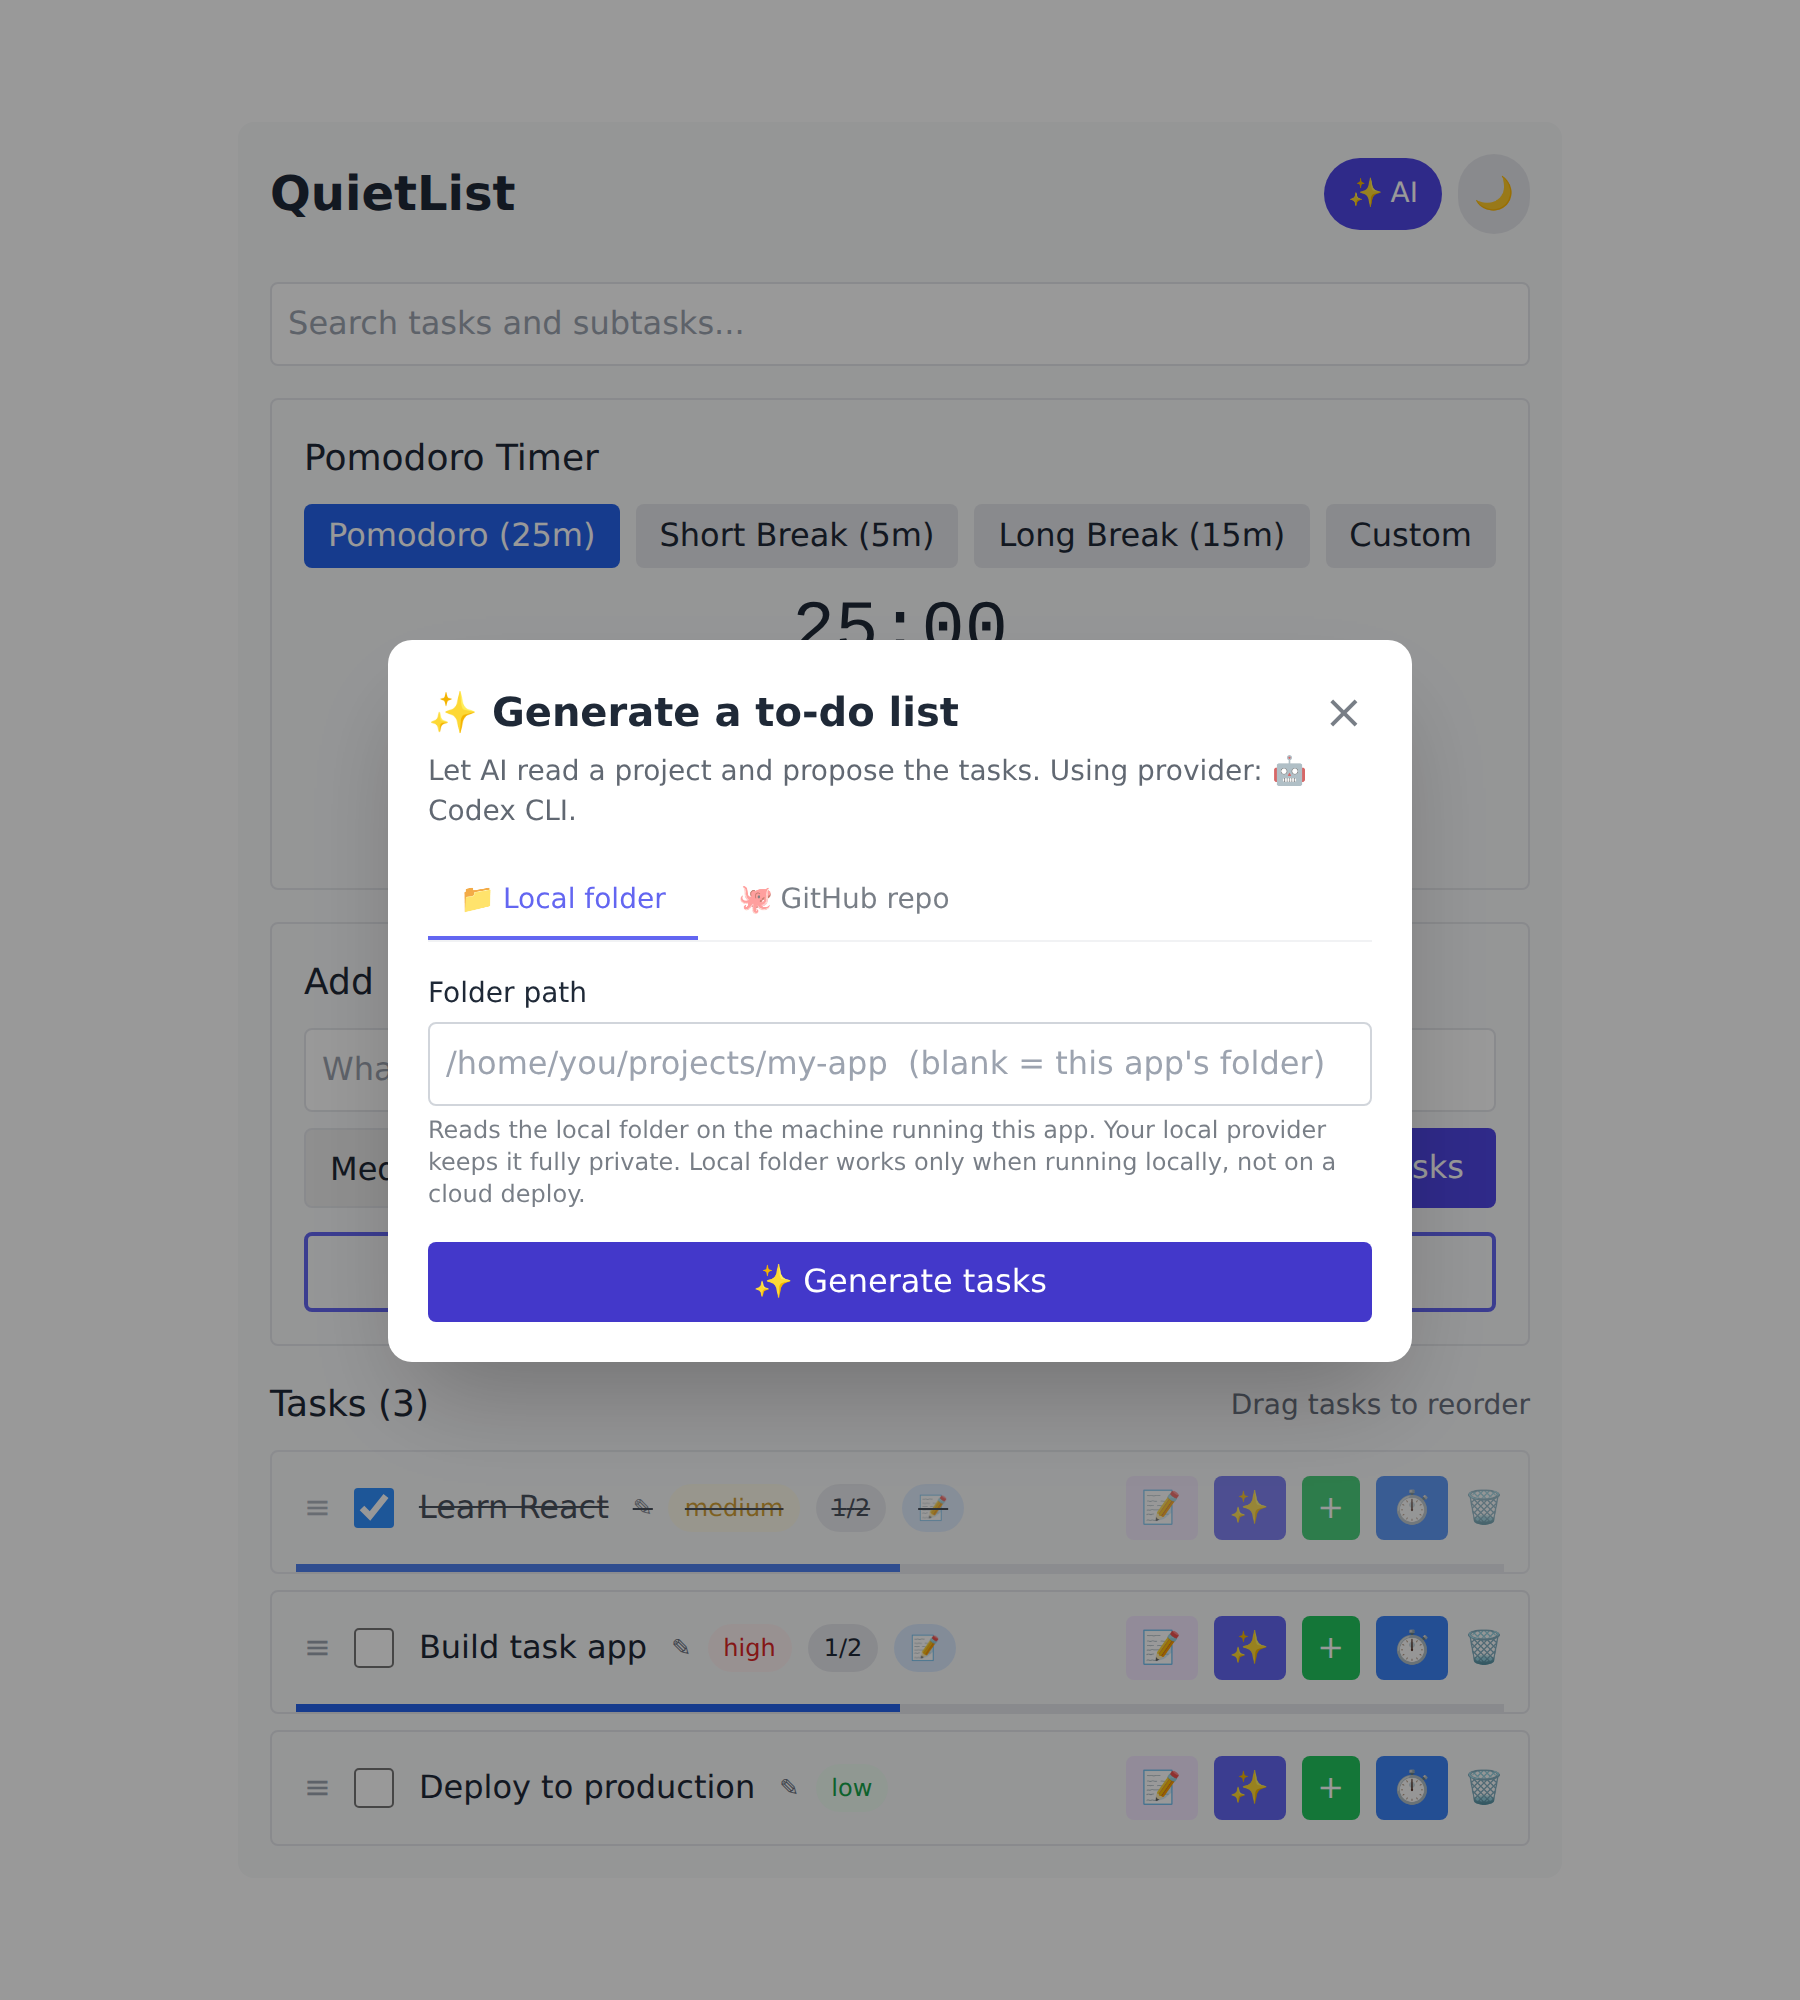
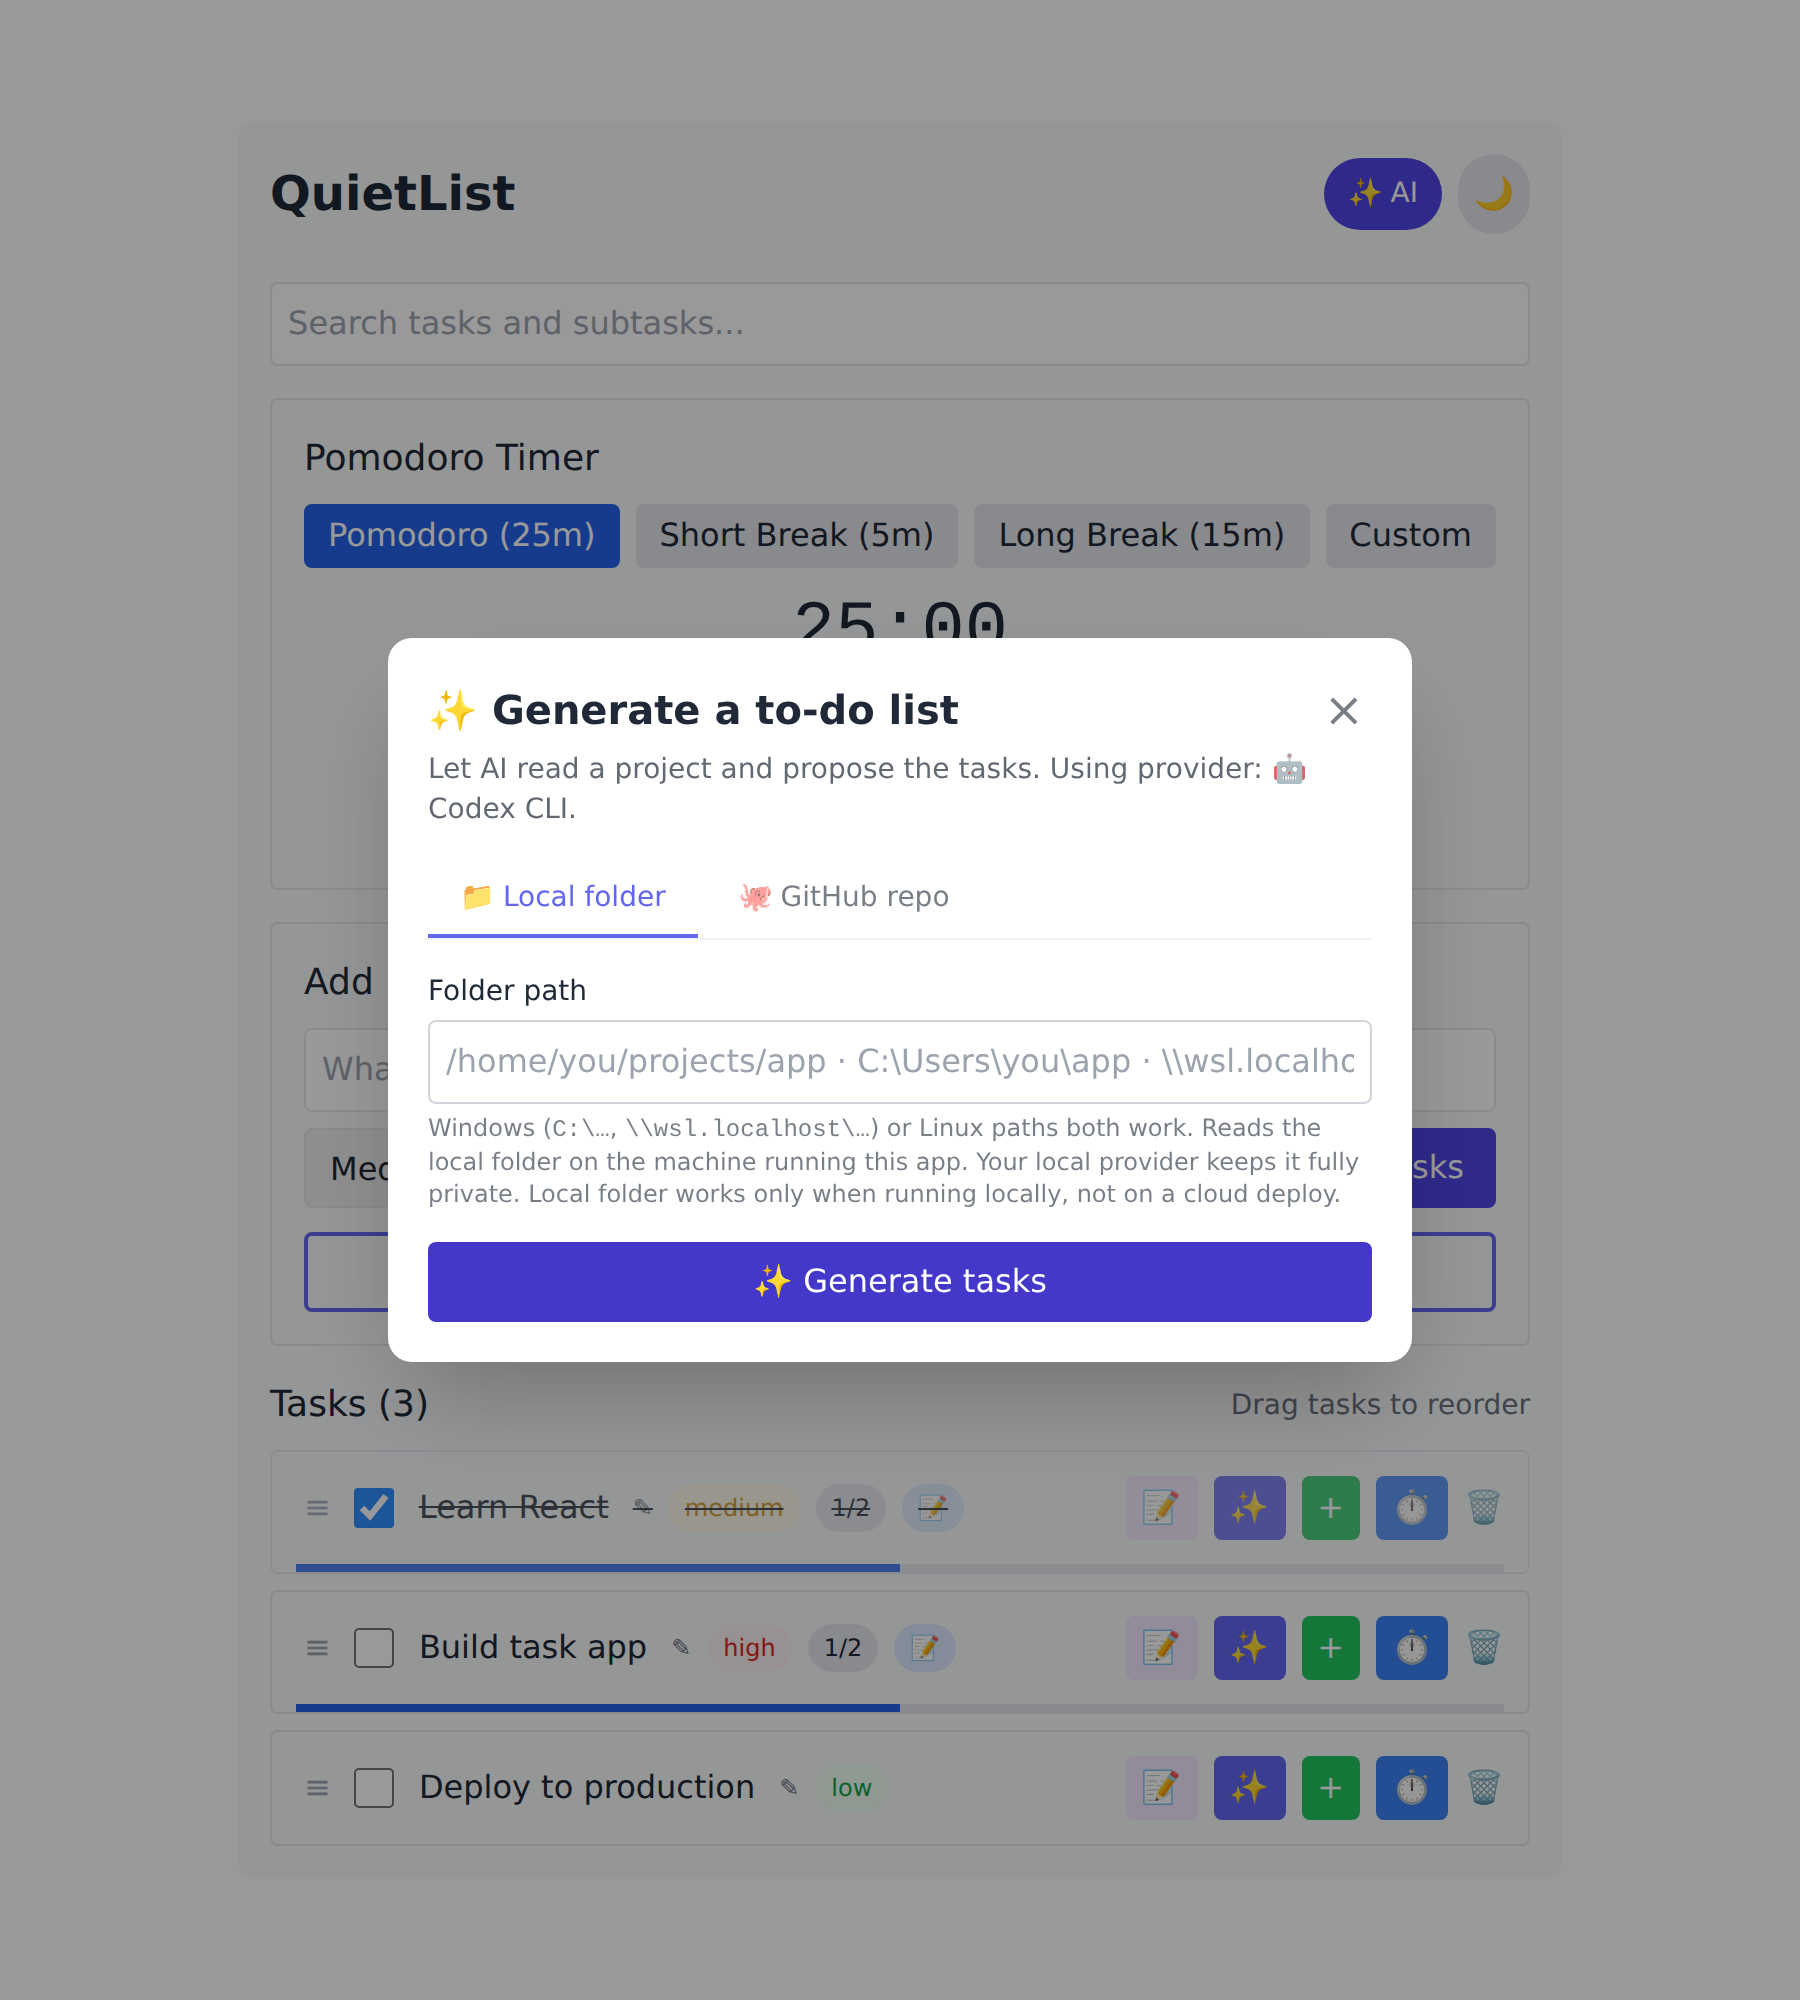
Generated to-do list lands as one parent task with the items as subtasks

diff --git a/components/TaskMasterApp.jsx b/components/TaskMasterApp.jsx
@@ -455,26 +455,28 @@ function TaskMasterApp() {
     if (created) await aiBreakdown(goal, created.id);
   };
 
-  // Append several AI-generated tasks at once (from the project generator)
-  const addTasksFromList = (texts) => {
+  // Add an AI-generated project to-do list as ONE parent task with the items as subtasks
+  const addTasksFromList = (texts, parentLabel) => {
     if (!texts || !texts.length) return;
+    const id = Date.now().toString();
     setTasks(prev => {
-      let maxOrder = prev.length > 0
+      const maxOrder = prev.length > 0
         ? Math.max(...prev.map(t => (t.order !== undefined ? t.order : 0)))
         : -1;
-      const created = texts.map((text, i) => ({
-        id: `${Date.now()}-${i}`,
-        text,
+      const parent = {
+        id,
+        text: parentLabel || 'Generated to-dos',
         description: '',
         done: false,
         priority: 'medium',
-        subtasks: [],
-        order: ++maxOrder,
+        subtasks: texts.map((text, i) => ({ id: `s${id}-${i}`, text, done: false, order: i })),
+        order: maxOrder + 1,
         showNotes: false,
-      }));
-      return [...prev, ...created];
+      };
+      return [...prev, parent];
     });
-    setAiMessage({ type: 'success', text: `Added ${texts.length} tasks from the project` });
+    setExpandedTasks(prev => ({ ...prev, [id]: true })); // expand so the subtasks show
+    setAiMessage({ type: 'success', text: `Added "${parentLabel}" with ${texts.length} subtasks` });
   };
 
   // Toggle task completion with animation

diff --git a/components/GenerateTodos.jsx b/components/GenerateTodos.jsx
@@ -51,9 +51,20 @@ export default function GenerateTodos({ open, onClose, aiSettings, configured, d
     }
   }
 
+  // Name the parent task after the project being scanned
+  function parentLabel() {
+    if (source === 'github') {
+      const r = repoInput.trim().replace(/\.git$/, '').split('/').filter(Boolean).slice(-2).join('/');
+      return r ? `🐙 ${r}` : '🐙 GitHub repo';
+    }
+    const p = pathInput.trim().replace(/[\\/]+$/, '');
+    const base = p ? p.split(/[\\/]/).pop() : 'this project';
+    return `📂 ${base || 'project'}`;
+  }
+
   function addSelected() {
     const picked = (results || []).filter((r) => r.checked).map((r) => r.text);
-    if (picked.length) onAddTasks(picked);
+    if (picked.length) onAddTasks(picked, parentLabel());
     onClose();
   }
 
